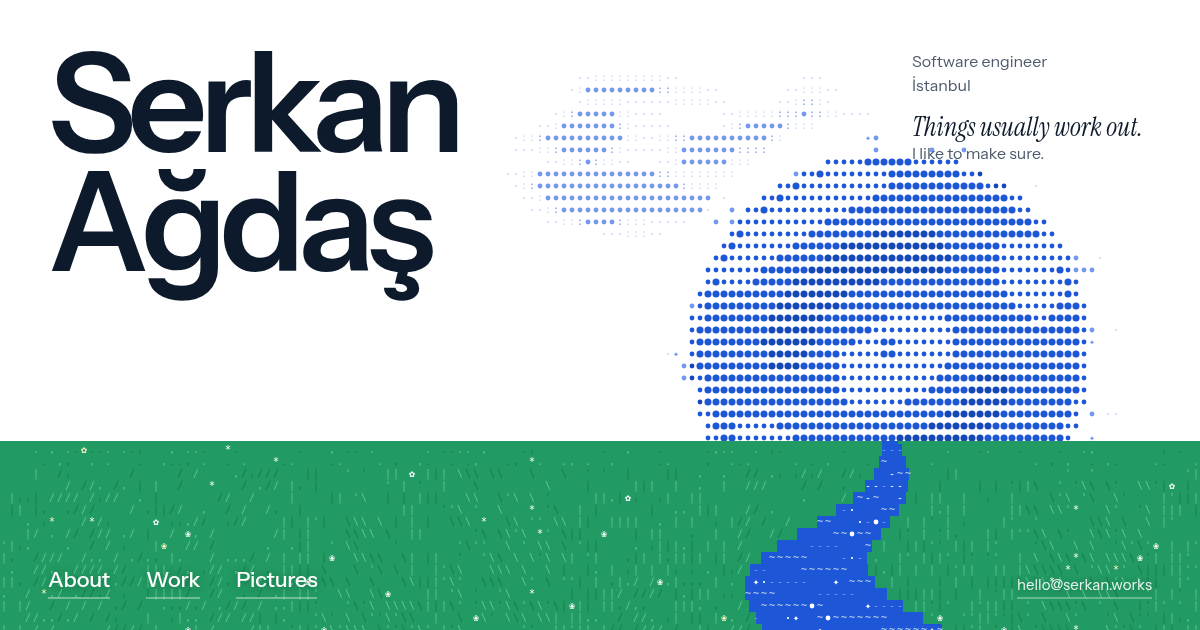
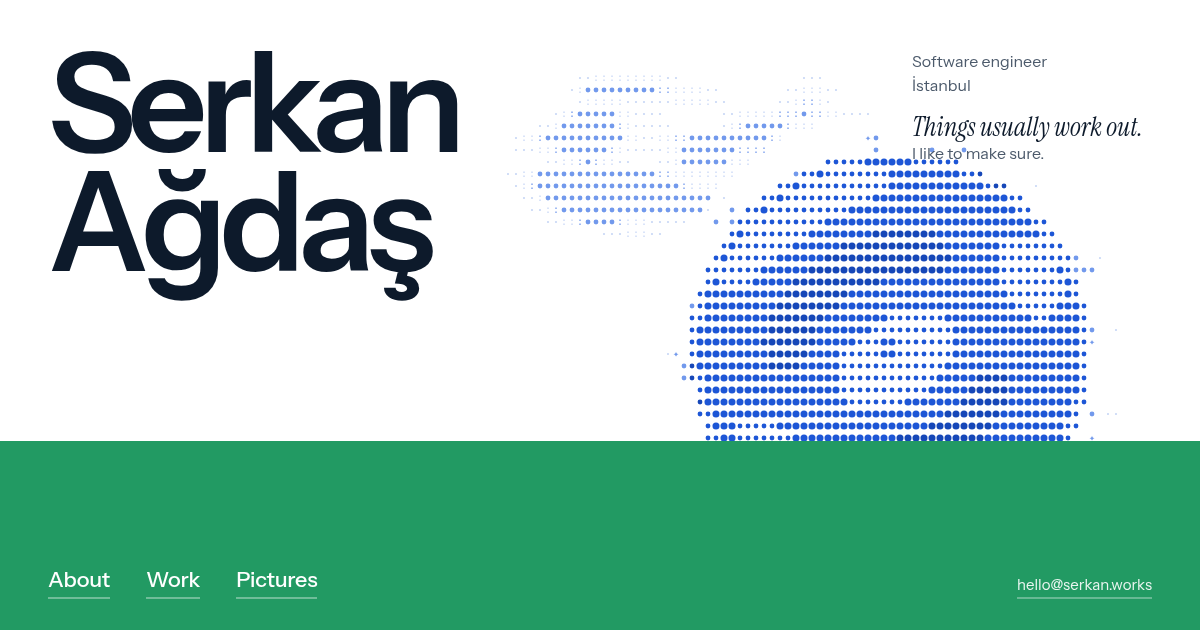
Plain green field under the ASCII sun
The field on the home page and in the page footer is a flat green bar
again; grass, daisies and the stream are gone. The halftone sun and
clouds keep their animation.

diff --git a/src/lib/scenes/landscape.ts b/src/lib/scenes/landscape.ts
@@ -1,5 +1,4 @@
-// The meadow: a blue sun over a green field, grass moving in the wind, daisies,
-// and a stream running down from the horizon with light on it.
+// A blue halftone sun over a plain green field, with slow clouds in the sky.
 
 import { clamp, hash, noise, smooth, type Grid, type Scene } from './util';
 
@@ -8,14 +7,12 @@ type Layout = {
   sx: number; // sun centre, px
   sy: number;
   sr: number; // sun radius, px
-  riverX: [number, number]; // stream centre at the horizon and at the bottom edge
-  riverW: [number, number]; // stream width at the horizon and at the bottom edge
   clouds: number;
   rise: boolean;
 };
 
 // Mirrors the poster layout in index.astro so the sun sits exactly where the CSS one used to.
-function poster({ W, H, cw }: Grid): Layout {
+function poster({ W, H }: Grid): Layout {
   const narrow = W < 720;
   const h = narrow ? 0.26 : 0.3;
   const s = narrow ? 0.78 * W : Math.min(0.64 * H, 0.46 * W);
@@ -27,14 +24,12 @@ function poster({ W, H, cw }: Grid): Layout {
     sx,
     sy: hy - 0.22 * s,
     sr: s / 2,
-    riverX: [sx, narrow ? W * 0.74 : W * 0.68],
-    riverW: [cw * 2, narrow ? W * 0.24 : W * 0.15],
     clouds: 1,
     rise: true,
   };
 }
 
-function meadow({ W, H, cw }: Grid): Layout {
+function meadow({ W, H }: Grid): Layout {
   const hy = H * 0.45;
   const sr = Math.min(H * 0.36, 80);
   return {
@@ -42,14 +37,10 @@ function meadow({ W, H, cw }: Grid): Layout {
     sx: W / 2,
     sy: hy + sr * 0.1,
     sr,
-    riverX: [W / 2, W / 2 + Math.min(W * 0.12, 160)],
-    riverW: [cw * 1.5, Math.min(W * 0.2, 260)],
     clouds: 0.7,
     rise: false,
   };
 }
-
-const lerp = (a: number, b: number, k: number) => a + (b - a) * k;
 
 function paint(g: Grid, L: Layout) {
   const { W, H, cw, ch, cols, rows, t, put } = g;
@@ -101,62 +92,8 @@ function paint(g: Grid, L: Layout) {
     }
   }
 
-  // ── field ──
+  // ── field: a plain green bar, the sun sets into it ──
   g.fill(0, L.hy, W, H - L.hy, 'green');
-  const daisies: [number, number, number][] = [];
-
-  for (let y = Math.floor(L.hy / ch); y < rows; y++) {
-    const top = Math.max(y * ch, L.hy);
-    const py = (y + 0.5) * ch;
-    const p = clamp((py - L.hy) / (H - L.hy));
-    const pk = smooth(0, 1, p);
-    const cx = lerp(L.riverX[0], L.riverX[1], pk) + Math.sin(p * 6.5 + 0.8) * W * 0.035 * p;
-    const hw = lerp(L.riverW[0], L.riverW[1], Math.pow(p, 1.25)) / 2;
-
-    g.fill(cx - hw, top, hw * 2, (y + 1) * ch - top, 'blue');
-    if (py < L.hy) continue;
-
-    for (let x = 0; x < cols; x++) {
-      const px = (x + 0.5) * cw;
-      const off = Math.abs(px - cx);
-
-      if (off < hw) {
-        // light on the water travels downstream; the sun's reflection sits near the horizon
-        const flow = Math.sin(px * 0.05 * (1.5 - p) + y * 0.9 - t * 3);
-        const spark = hash(x, Math.floor(y - t * (3 + 6 * p)), 7);
-        const glare = p < 0.35 && Math.abs(px - L.sx) < L.sr * 0.45 * (1 - p) && hash(x, y, Math.floor(t * 6)) < 0.35;
-        if (spark < 0.035 || glare) put(x, y, spark < 0.015 ? '✦' : glare ? '-' : '•', 'white');
-        else if (spark < 0.085) put(x, y, '·', 'white');
-        else if (flow > 0.55) put(x, y, '~', 'bluePale');
-        else if (flow < -0.75) put(x, y, '-', 'blueLight');
-        continue;
-      }
-      if (off < hw + cw * 0.8) continue; // a clean bank
-
-      const wind = Math.sin(px * 0.01 - t * 1.4 + py * 0.004) * 0.7 + Math.sin(px * 0.034 - t * 2.2) * 0.3;
-      const r = hash(x, y, 1);
-
-      if (hash(x, y, 4) < 0.022 * (0.35 + p)) {
-        daisies.push([x, y, wind]);
-        continue;
-      }
-
-      if (r < 0.26 + 0.5 * p) {
-        let glyph: string;
-        if (p < 0.12) glyph = r < 0.2 ? '.' : ',';
-        else if (hash(x, y, 2) < 0.28) glyph = wind > 0 ? ',' : "'";
-        else glyph = wind > 0.42 ? '/' : wind < -0.42 ? '\\' : '|';
-        put(x, y, glyph, hash(x, y, 3) < 0.45 + 0.2 * p ? 'greenLight' : 'greenDark');
-      }
-    }
-  }
-
-  // daisies nod in the same wind as the grass
-  for (const [x, y, wind] of daisies) {
-    const near = (y * ch - L.hy) / (H - L.hy) > 0.45;
-    const glyph = Math.abs(wind) > 0.6 ? '*' : near ? '❀' : '✿';
-    put(x, y, glyph, hash(x, y, 5) < 0.2 ? 'cream' : 'white');
-  }
 }
 
 export const landscape: Record<string, Scene> = {
